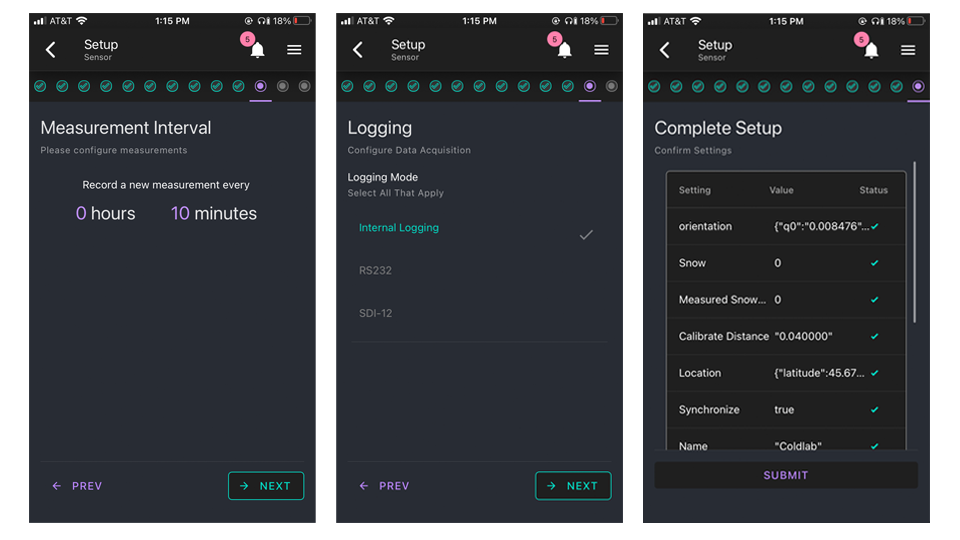
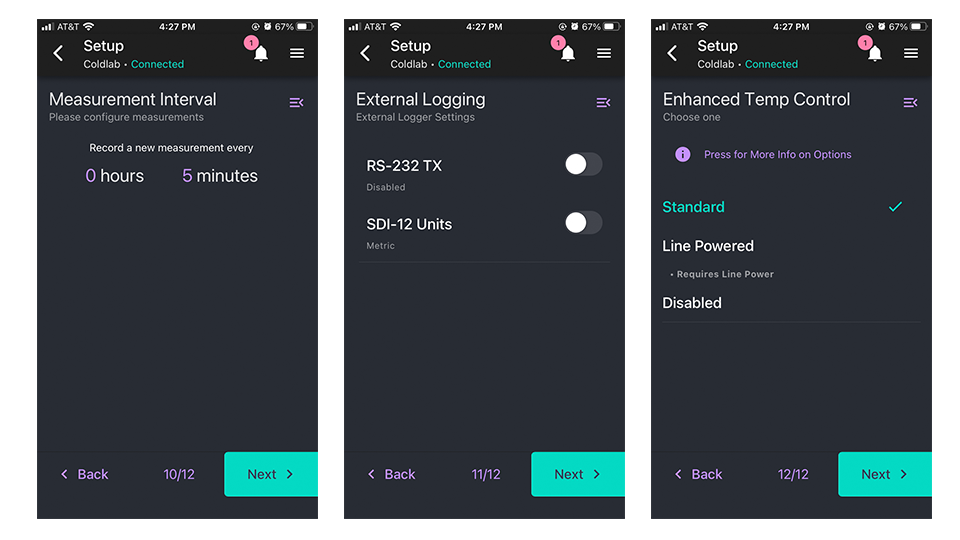
Update images and content

diff --git a/user_guides/README.md b/user_guides/README.md
@@ -54,12 +54,8 @@ Play Store App                                                                  
 ### Permissions
 To run the fully featured App, Bluetooth and Location services (i.e. GPS) *MUST* be enabled.
 
-### Scan
-To scan for available sensors either press the **Scan** button on the bottom of the home screen. Scanning can be stopped by tapping the **Stop Scanning** button.
-
-![](images/scan_page.png)
-
 ### Connect
+![](images/connect_screen.png)
 1. To connect to a sensor, tap the **+** sign in the lower right corner of the screen.
 
 2. From the **Add Sensor** screen, connect to the desired sensor by tapping on the **Connect** button by the sensor’s name.
@@ -67,7 +63,7 @@ To scan for available sensors either press the **Scan** button on the bottom of 
 3. When prompted, enter the default passkey `123456` and tap the pair button. 
 	- For more information on changing an already connected sensor’s passkey see Security -> Change Passkey.
 	
-4. Devices that have already been added will be listed on the home screen and can be connected to using the **Connect** button to the right of the device's name.
+4. Devices that have already been added will be listed on the home screen and can be connected to by tapping the **Bluetooth** button to the right of the device's name.
 
 ![](images/connect_button.png)
 
@@ -89,36 +85,6 @@ Upon SNOdar sensor field installation, it is imperative to run the **Sensor Setu
 
 ![](images/setup_menu.png)
 
-### Mounting: Orientation
-The Mounting Orientation page verifies that the sensor is mounted in the proper orientation - less than 10 meters above ground and with the sensor bottom facing towards the ground.
-
-Once the sensor has been mounted press the **verify** button in the bottom middle of the screen. If the sensor is properly oriented, the **verify** button will turn green and say **verified**.
-
-### Mounting: Snow Presence
-The Snow Presence Page records if snow is present when sensor is set up. If snow is present, the depth of the snow in meters must be entered.
-
-### Mounting: Sensor Calibration
-The Sensor Calibration Page allows the sensor to calibrate. To do so clear any obstruction from near the sensor, press the **refresh**  icon, and stand at least 10 meters away from the sensor.
-
-![](images/setup_orientation.png)
-
-### Location
-The Location Page uses your mobile device's GPS to determine the sensor's location. To do so, press the **Auto Coordinates** button in the bottom middle of the screen.
-
-The location can be updated by tapping the **Auto Coordinates** button again.
-
-### Synchronize
-The Synchronize Page synchronizes the sensor's time with the time of your mobile device. To do so, press the **refresh** icon. 
-
-When the time has been synchronized, the newly set time will be displayed.
-
-### Name Sensor
-The Name Sensor Page allows for the sensor to be given a unique name.
-
-The name can be reverted back to the original sensor name by pressing the **refresh** icon to the right of the text input field.
-
-![](images/setup_two.png)
-
 ### Sensor Mode
 The Sensor Mode Page allows for different sensor operation modes to be selected.
 
@@ -127,23 +93,71 @@ The Sensor Mode Page allows for different sensor operation modes to be selected.
 - The **Distance** sensor mode is used for basic distance measurements. This will be the default mode when NO Bluetooth setup can be done. The sensor will measure distance to the snow every 5 minutes and send data out the SDI-12.
 - The **Manual** sensor mode has no automated operation only user interactions. This mode is used exclusively for testing and in lab scenarios.
 
+### Mounting: Orientation
+The Mounting Orientation page verifies that the sensor is mounted in the proper orientation - less than 10 meters above ground and with the sensor bottom facing towards the ground.
+
+Once the sensor has been mounted press the **verify** button in the bottom middle of the screen. If the sensor is properly oriented, the **verify** button will turn green and say **verified**.
+
+### Mounting: Snow Presence
+The Snow Presence Page records if snow is present when sensor is set up. If snow is present, the depth of the snow in meters must be entered.
+
+![](images/setup_one.png)
+
+
+### Mounting: Distance Calibration
+The Sensor Calibration Page allows the sensor to calibrate. To do so clear any obstruction from near the sensor, press the **refresh**  icon, and stand at least 10 meters away from the sensor.
+
+### Location
+
+The Location Page uses your mobile device's GPS to determine the sensor's location. To do so, press the **Auto Coordinates** button in the bottom middle of the screen.
+
+The location can be updated by tapping the **Auto Coordinates** button again.
+
+### Synchronize
+
+The Synchronize Page synchronizes the sensor's time with the time of your mobile device. To do so, press the **refresh** icon. 
+
+When the time has been synchronized, the newly set time will be displayed.
+
+![](images/setup_two.png)
+
+### Name Sensor
+
+The Name Sensor Page allows for the sensor to be given a unique name.
+
+The name can be reverted back to the original sensor name by pressing the **refresh** icon to the right of the text input field.
+
+### Reset Time
+*Add info*
+
 ### Snow Class
+
 The Snow Class Page allows for the type of snow to be specified. Choose a snow class out of alpine, maritime, prairie, tundra, and taiga that best describes the snow in your location.
+
+![](images/setup_three.png)
+
+![](images/setup_four.png)
+
 
 ### Measurement Interval
 The Measurement Interval Page allows for the interval at which measurements are taken to be set.
 
 To set the interval, tap anywhere on the current hours and minutes listing. Then tap the time button that appears. To increase the time, drag the hours (left) or minutes (right) up. To decrease the time, drag the hours (left) or minutes (right) down. Tap anywhere outside of the time input to exit.
 
-### Logging
+### External Logging
 The logging mode for data acquisition can be set to a combination of internal logging, RS232, and SDI-12.
 
-### Complete Setup
-Lastly, the Complete Setup Page provides a summary of the settings. To confirm the settings and complete the sensor setup, press submit. To correct a setting, page back through the previous pages using the completion bar at the top of the screen.
+### Enhanced Temperature Control
+*Add info*
 
 ![](images/setup_four.png)
 
+### Complete Setup
+
+Lastly, the Complete Setup Page provides a summary of the settings. To confirm the settings and complete the sensor setup, press submit. To correct a setting, page back through the previous pages using the completion bar at the top of the screen.
+
 ### Erase Data Flash
+
 Before sensor setup is complete you will be asked if you would like to format the device storage. By choosing yes the device storage will be formatted *and any prior data of the sensor will be deleted*. By choosing no, the device storage will not be formatted and the sensor's prior data will be preserved. 
 
 ![](images/data_flash.png)
